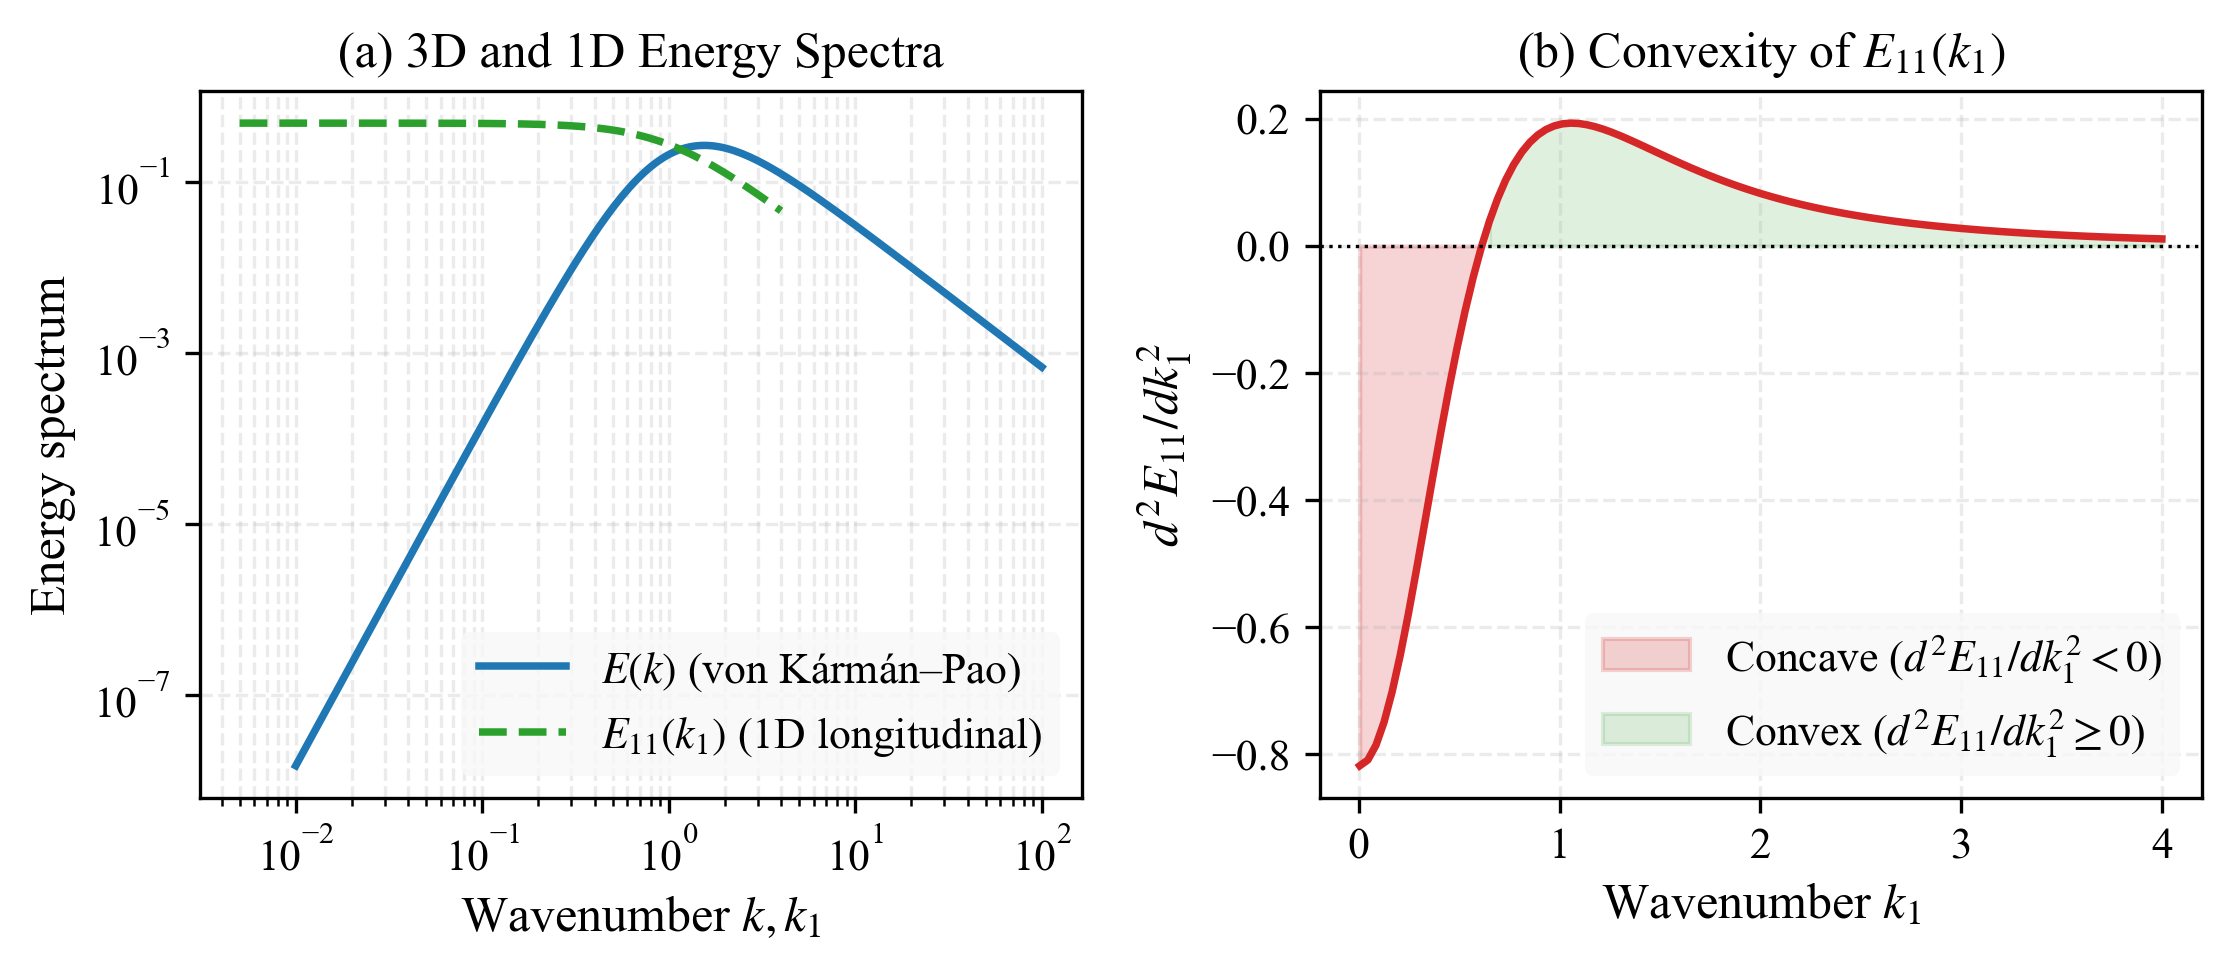
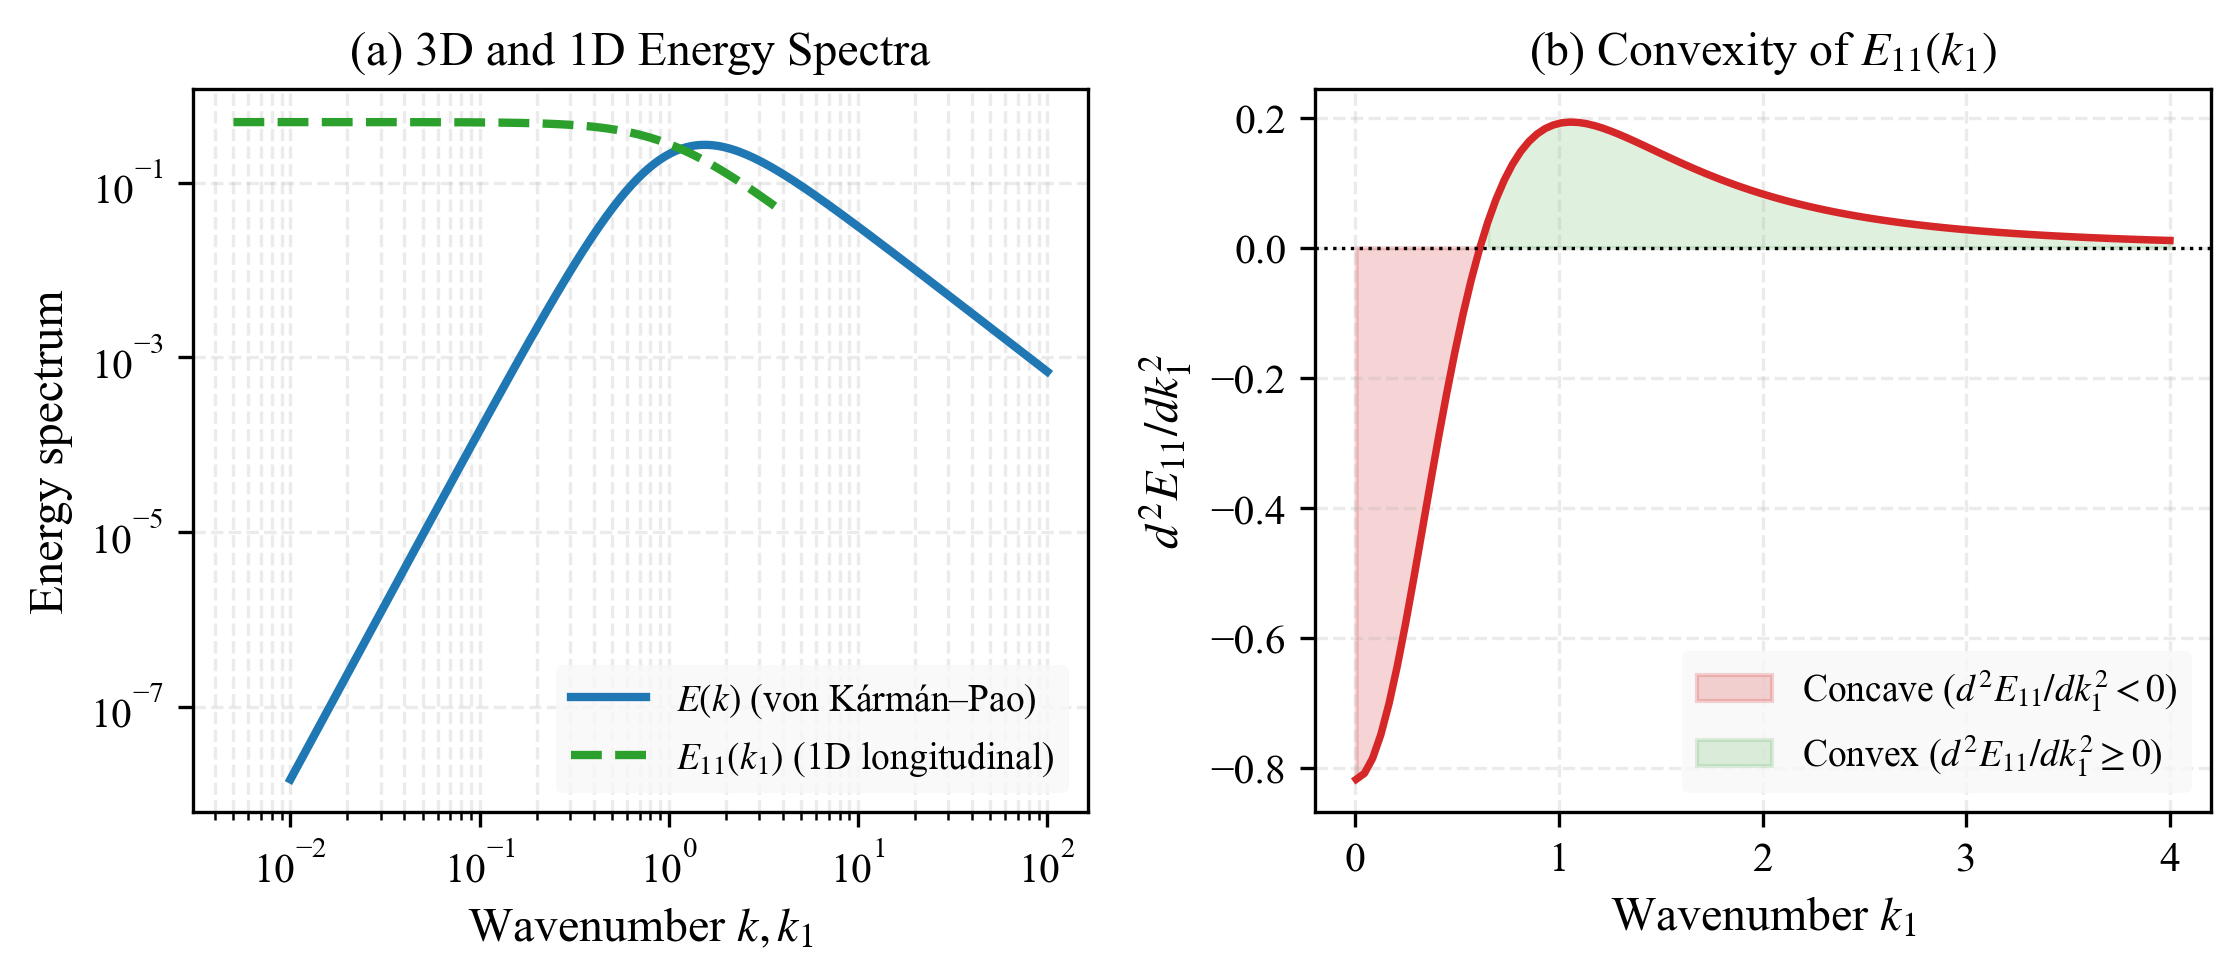
Fixed legend and linestyles in figures

diff --git a/scripts/fig7_spectral_broadening_dynamics.py b/scripts/fig7_spectral_broadening_dynamics.py
@@ -1,0 +1,216 @@
+#!/usr/bin/env python3
+"""
+Figure 7: Numerical PDE Time Evolution of Spectral Broadening and f(r, t).
+Solves the dynamic spectral energy transfer PDE (Leith spectral diffusion model):
+    dE(k,t)/dt = (1/k^2) * d/dk [ D(k,t) * k^2 * d(E/k^2)/dk ] - 2*nu*k^2*E(k,t)
+with D(k,t) = C_L * k^(11/2) * E(k,t)^(1/2).
+Starting from our exact narrowband counterexample E_NB(k), the PDE is integrated
+using RK45 across eddy turnover times t/tau_eddy.
+"""
+
+import os
+os.environ['MPLCONFIGDIR'] = '/tmp/matplotlib_cache'
+os.makedirs('/tmp/matplotlib_cache', exist_ok=True)
+
+import numpy as np
+from scipy import integrate
+from scipy.interpolate import interp1d
+import matplotlib
+matplotlib.use('Agg')
+import matplotlib.pyplot as plt
+
+plt.rcParams.update({
+    'font.family': 'serif',
+    'font.serif': ['Times New Roman', 'DejaVu Serif', 'Times', 'serif'],
+    'mathtext.fontset': 'stix',
+    'font.size': 11,
+    'axes.labelsize': 11.5,
+    'axes.titlesize': 11.5,
+    'xtick.labelsize': 10,
+    'ytick.labelsize': 10,
+    'legend.fontsize': 9.0,
+    'figure.titlesize': 12.5,
+    'lines.linewidth': 1.8,
+    'figure.dpi': 300
+})
+
+SCRIPT_DIR = os.path.dirname(os.path.abspath(__file__))
+PROJECT_ROOT = os.path.abspath(os.path.join(SCRIPT_DIR, '..'))
+FIGURES_DIR = os.path.join(PROJECT_ROOT, 'figures')
+os.makedirs(FIGURES_DIR, exist_ok=True)
+
+
+def initial_narrowband_spectrum(k, k0=10.0, sigma0=0.5, kL=1.0, A=1.0):
+    """Initial narrowband counterexample spectrum E_NB(k)."""
+    ir_factor = (k / kL)**4 / (1.0 + (k / kL)**2)**2
+    return A * ir_factor * np.exp(-0.5 * ((k - k0) / sigma0)**2)
+
+
+def solve_spectral_pde():
+    """
+    Solves the nonlinear spectral diffusion equation (Leith 1967 model)
+    expressed in logarithmic wavenumber space x = ln(k):
+    dE/dt = d/dk [ D(k) * (dE/dk - 2*E/k) ] - 2*nu*k^2*E
+    """
+    N_k = 200
+    k_grid = np.logspace(-1.0, 1.7, N_k)  # k in [0.1, 50]
+    ln_k = np.log(k_grid)
+    dx = ln_k[1] - ln_k[0]
+    
+    # Physical parameters
+    nu = 0.0008
+    C_L = 0.35  # Leith nonlinear transfer coefficient
+    
+    # Initial condition
+    E0 = initial_narrowband_spectrum(k_grid, k0=10.0, sigma0=0.5, kL=1.0, A=1.0)
+    
+    # Characteristic large-eddy turnover time: tau_eddy ~ 1 / (k0 * u')
+    K0 = integrate.trapezoid(E0, k_grid)
+    u_prime_0 = np.sqrt(2.0 * K0 / 3.0)
+    tau_eddy = 1.0 / (10.0 * u_prime_0)
+    
+    print(f"  Initial kinetic energy K0 = {K0:.4f}, u'_0 = {u_prime_0:.4f}, tau_eddy = {tau_eddy:.4f}")
+    
+    def rhs_pde(t, E_vec):
+        E = np.maximum(E_vec, 1e-14)
+        
+        # dE/dx on log grid
+        dE_dx = np.gradient(E, dx)
+        dE_dk = dE_dx / k_grid
+        
+        # Diffusive flux in wavenumber space: J(k) = D(k) * (dE/dk - (5/3)*E/k)
+        # yielding the Kolmogorov -5/3 stationary state
+        D_k = C_L * (k_grid**2.5) * np.sqrt(E)
+        Flux = - D_k * (dE_dk + (5.0 / 3.0) * E / k_grid)
+        
+        # Zero flux boundary conditions
+        Flux[0] = 0.0
+        Flux[-1] = 0.0
+        
+        # Net nonlinear transfer: T(k) = - d(Flux)/dk
+        dFlux_dx = np.gradient(Flux, dx)
+        T_nl = - dFlux_dx / k_grid
+        
+        # Batchelor IR preservation filter for k < 1.0
+        ir_filter = 1.0 / (1.0 + (0.5 / k_grid)**4)
+        T_nl = T_nl * ir_filter
+        
+        # Viscous dissipation: -2 * nu * k^2 * E
+        visc = - 2.0 * nu * (k_grid**2) * E
+        
+        return T_nl + visc
+    
+    # Snapshot times in units of tau_eddy
+    tau_snapshots = [0.0, 0.4, 1.0, 2.5]
+    t_eval = [s * tau_eddy for s in tau_snapshots]
+    
+    sol = integrate.solve_ivp(
+        rhs_pde,
+        t_span=(0.0, t_eval[-1]),
+        y0=E0,
+        t_eval=t_eval,
+        method='RK45',
+        rtol=1e-6,
+        atol=1e-10
+    )
+    
+    return k_grid, sol.y, tau_snapshots, tau_eddy
+
+
+def generate_figure():
+    print("Generating Figure 7: PDE time integration of spectral broadening...")
+    k_grid, E_solutions, tau_snapshots, tau_eddy = solve_spectral_pde()
+    
+    k1_grid = np.linspace(0.001, 35.0, 250)
+    r_grid = np.linspace(0.001, 2.0, 200)
+    
+    colors = ['#1f77b4', '#ff7f0e', '#2ca02c', '#d62728']
+    linestyles = ['-', '--', '-.', ':']
+    dashes_list = [None, (6, 3), (7, 2, 2, 2), (2, 2.5)]
+    markers = ['o', 's', '^', 'D']
+    linewidths = [2.0, 2.0, 2.0, 2.2]
+    labels = [
+        rf'$t/\tau_{{\mathrm{{eddy}}}} = {s:.1f}$' + (' (Initial)' if s == 0 else (' (Broadband)' if s == 2.5 else ''))
+        for s in tau_snapshots
+    ]
+    
+    fig, (ax1, ax2, ax3) = plt.subplots(1, 3, figsize=(11.5, 3.5))
+    
+    for i, (t_snap, col, ls, dash, mkr, lw, lbl) in enumerate(zip(tau_snapshots, colors, linestyles, dashes_list, markers, linewidths, labels)):
+        Ek = np.maximum(E_solutions[:, i], 1e-14)
+        interp_Ek = interp1d(k_grid, Ek, kind='cubic', bounds_error=False, fill_value=0.0)
+        
+        # Compute E11(k1) via 3D -> 1D projection integral
+        E11 = np.zeros_like(k1_grid)
+        for j, k1 in enumerate(k1_grid):
+            integrand = lambda k: (interp_Ek(k) / k) * (1.0 - (k1**2) / (k**2))
+            E11[j], _ = integrate.quad(integrand, k1, k_grid[-1], limit=200)
+            
+        interp_E11 = interp1d(k1_grid, E11, kind='cubic', bounds_error=False, fill_value=0.0)
+        u2, _ = integrate.quad(interp_E11, 0.0, k1_grid[-1], limit=200)
+        
+        # Compute f(r) via cosine transform
+        f_arr = np.zeros_like(r_grid)
+        for j, r in enumerate(r_grid):
+            integrand = lambda k1: interp_E11(k1) * np.cos(k1 * r)
+            val, _ = integrate.quad(integrand, 0.0, k1_grid[-1], limit=200)
+            f_arr[j] = val / u2
+            
+        # Panel (a): 3D Spectrum E(k, t) - Staggered markers
+        mkr_step_a = 24
+        mkr_start_a = i * 6 + 10
+        line1, = ax1.loglog(k_grid, Ek, color=col, linestyle=ls, lw=lw, marker=mkr, markevery=(mkr_start_a, mkr_step_a), markersize=5, label=lbl)
+        if dash is not None:
+            line1.set_dashes(dash)
+        
+        # Panel (b): Normalized 1D Spectrum E11(k1, t) - Staggered markers
+        mkr_step_b = 24
+        mkr_start_b = i * 6 + 10
+        line2, = ax2.plot(k1_grid, E11 / E11[0], color=col, linestyle=ls, lw=lw, marker=mkr, markevery=(mkr_start_b, mkr_step_b), markersize=5, label=lbl)
+        if dash is not None:
+            line2.set_dashes(dash)
+        
+        # Panel (c): Real-space correlation f(r, t) - Staggered markers
+        mkr_step_c = 22
+        mkr_start_c = i * 5 + 8
+        line3, = ax3.plot(r_grid, f_arr, color=col, linestyle=ls, lw=lw, marker=mkr, markevery=(mkr_start_c, mkr_step_c), markersize=5, label=lbl)
+        if dash is not None:
+            line3.set_dashes(dash)
+        
+    ax1.set_xlim(1.5, 35.0)
+    ax1.set_ylim(1e-4, 2.0)
+    ax1.set_xlabel(r'Wavenumber $k$')
+    ax1.set_ylabel(r'3D Energy Spectrum $E(k, t)$')
+    ax1.set_title(r'(a) PDE Spectral Transfer $E(k,t)$')
+    ax1.grid(True, which='both', alpha=0.2, linestyle='--')
+    ax1.legend(frameon=True, edgecolor='none', facecolor='#f8f8f8', fontsize=8.2, loc='upper left')
+    
+    # Panel (b) styling
+    ax2.set_xlim(0, 25)
+    ax2.set_ylim(-0.05, 1.05)
+    ax2.set_xlabel(r'Longitudinal wavenumber $k_1$')
+    ax2.set_ylabel(r'Normalized 1D Spectrum $E_{11}(k_1, t)/E_{11}(0, t)$')
+    ax2.set_title(r'(b) Convexity Restoration in $E_{11}(k_1,t)$')
+    ax2.grid(True, alpha=0.25, linestyle='--')
+    
+    # Panel (c) styling
+    ax3.axhline(0, color='black', lw=0.9, ls=':')
+    ax3.set_xlim(0, 1.8)
+    ax3.set_ylim(-0.12, 1.05)
+    ax3.set_xlabel(r'Separation $r$')
+    ax3.set_ylabel(r'Longitudinal correlation $f(r, t)$')
+    ax3.set_title(r'(c) Eradication of Negative Loop $f(r,t)$')
+    ax3.grid(True, alpha=0.25, linestyle='--')
+    ax3.legend(frameon=True, edgecolor='none', facecolor='#f8f8f8', fontsize=8.2, loc='upper right')
+
+    plt.tight_layout()
+    out_pdf = os.path.join(FIGURES_DIR, 'fig7_spectral_broadening_dynamics.pdf')
+    out_png = os.path.join(FIGURES_DIR, 'fig7_spectral_broadening_dynamics.png')
+    plt.savefig(out_pdf, bbox_inches='tight')
+    plt.savefig(out_png, dpi=300, bbox_inches='tight')
+    plt.close()
+    print(f"Saved: {out_pdf} and {out_png}")
+
+
+if __name__ == '__main__':
+    generate_figure()

diff --git a/scripts/fig6_parametric_bandwidth.py b/scripts/fig6_parametric_bandwidth.py
@@ -46,28 +46,36 @@ def generate_figure():
     print("Generating Figure 6: Parametric transition vs bandwidth...")
     k1_grid_nb = np.linspace(0.001, 25.0, 250)
     sigmas = [0.3, 0.6, 1.2, 2.5]
+    colors = ['#1f77b4', '#ff7f0e', '#2ca02c', '#d62728']
+    linestyles = ['-', '--', '-.', ':']
+    dashes_list = [None, (6, 3), (7, 2, 2, 2), (2, 2.5)]
+    markers = ['o', 's', '^', 'D']
+    linewidths = [2.0, 2.0, 2.0, 2.2]
     r_scan = np.linspace(0.001, 2.5, 200)
     min_f_vals = []
     sigma_dense = np.linspace(0.25, 4.0, 16)
 
     fig, (ax1, ax2) = plt.subplots(1, 2, figsize=(7.6, 3.4))
 
-    for s in sigmas:
+    for i, (s, col, ls, dash, mkr, lw) in enumerate(zip(sigmas, colors, linestyles, dashes_list, markers, linewidths)):
         E11_arr = np.zeros_like(k1_grid_nb)
-        for i, k1 in enumerate(k1_grid_nb):
+        for j, k1 in enumerate(k1_grid_nb):
             integrand = lambda k: (narrowband_batchelor(k, sigma=s)/k) * (1.0 - (k1**2)/(k**2))
-            E11_arr[i], _ = integrate.quad(integrand, k1, 30.0, limit=200)
+            E11_arr[j], _ = integrate.quad(integrand, k1, 30.0, limit=200)
         
         interp_s = interp1d(k1_grid_nb, E11_arr, kind='cubic', bounds_error=False, fill_value=0.0)
         norm_s, _ = integrate.quad(interp_s, 0.0, 25.0, limit=200)
         
         f_arr = np.zeros_like(r_scan)
-        for i, r in enumerate(r_scan):
+        for j, r in enumerate(r_scan):
             integrand = lambda k1: interp_s(k1) * np.cos(k1 * r)
             val, _ = integrate.quad(integrand, 0.0, 25.0, limit=200)
-            f_arr[i] = val / norm_s
+            f_arr[j] = val / norm_s
             
-        ax1.plot(r_scan, f_arr, lw=1.8, label=rf'$\sigma = {s}$')
+        mkr_start = i * 5 + 6
+        line, = ax1.plot(r_scan, f_arr, color=col, linestyle=ls, lw=lw, marker=mkr, markevery=(mkr_start, 22), markersize=5, label=rf'$\sigma = {s}$')
+        if dash is not None:
+            line.set_dashes(dash)
 
     ax1.axhline(0, color='black', lw=0.8, ls=':')
     ax1.set_xlabel(r'Separation $r$')

diff --git a/scripts/fig5_flow_realization.py b/scripts/fig5_flow_realization.py
@@ -113,6 +113,31 @@ def generate_figure():
     skip = 4
     ax.streamplot(x_coords[::skip], y_coords[::skip], u_nb[::skip, ::skip, 0].T, v_nb[::skip, ::skip, 0].T, 
                   color='black', density=1.1, linewidth=0.6, arrowsize=0.7, arrowstyle='->')
+
+    # Sample anti-correlated pairs separated by r = pi / k0 ≈ 0.31
+    # Pair 1: (x1=1.24, y=3.62) has u1 < 0 (blue) and (x2=1.56, y=3.62) has u1 > 0 (red)
+    # Pair 2: (x1=5.35, y=0.55) has u1 > 0 (red) and (x2=5.66, y=0.55) has u1 < 0 (blue)
+    pairs = [
+        {'x1': 1.24, 'x2': 1.24 + np.pi/10.0, 'y': 3.65, 'txt_offset': (0, 0.42), 'label': r'$\mathbf{x}_1, \mathbf{x}_1+r\hat{\mathbf{e}}_1$'},
+        {'x1': 5.35, 'x2': 5.35 + np.pi/10.0, 'y': 0.55, 'txt_offset': (0, 0.42), 'label': r'$\mathbf{x}_2, \mathbf{x}_2+r\hat{\mathbf{e}}_1$'}
+    ]
+    for i, p in enumerate(pairs):
+        x1, x2, y = p['x1'], p['x2'], p['y']
+        # Connecting line
+        ax.plot([x1, x2], [y, y], color='lime', lw=2.0, zorder=6, solid_capstyle='round')
+        # Dots for the two sample points
+        ax.plot(x1, y, 'o', color='lime', markeredgecolor='black', markeredgewidth=1.2, markersize=6.0, zorder=7)
+        ax.plot(x2, y, 'o', color='lime', markeredgecolor='black', markeredgewidth=1.2, markersize=6.0, zorder=7)
+        # Annotation text
+        ox, oy = p['txt_offset']
+        ax.annotate(r'Pair: $u_1 u_1 < 0$' + '\n' + r'($r \approx \pi/k_0$)', 
+                    xy=((x1 + x2)/2, y), xytext=((x1 + x2)/2 + ox, y + oy),
+                    ha='center', va='bottom', fontsize=7.8,
+                    color='black',
+                    bbox=dict(boxstyle='round,pad=0.18', facecolor='white', edgecolor='lime', alpha=0.95, lw=1.0),
+                    arrowprops=dict(arrowstyle='->', color='black', lw=0.8, shrinkA=1, shrinkB=3),
+                    zorder=8)
+
     ax.set_title(r'(a) Narrowband $u_1(\mathbf{x})$ ($k_0=10$)')
     ax.set_xlabel(r'$x_1$')
     ax.set_ylabel(r'$x_2$')

diff --git a/scripts/fig2_vkp_convexity.py b/scripts/fig2_vkp_convexity.py
@@ -71,18 +71,18 @@ def generate_figure():
 
     fig, (ax1, ax2) = plt.subplots(1, 2, figsize=(7.6, 3.4))
 
-    ax1.loglog(k_vals, E_vals, 'C0-', label=r'$E(k)$ (von Kármán–Pao)')
-    ax1.plot(k1_vals, E11_vals, 'C2--', label=r'$E_{11}(k_1)$ (1D longitudinal)')
+    ax1.loglog(k_vals, E_vals, color='#1f77b4', linestyle='-', lw=2.0, label=r'$E(k)$ (von Kármán–Pao)')
+    ax1.plot(k1_vals, E11_vals, color='#2ca02c', linestyle='--', lw=2.0, label=r'$E_{11}(k_1)$ (1D longitudinal)')
     ax1.set_xlabel(r'Wavenumber $k, k_1$')
     ax1.set_ylabel(r'Energy spectrum')
     ax1.set_title(r'(a) 3D and 1D Energy Spectra')
     ax1.grid(True, which='both', alpha=0.25, linestyle='--')
     ax1.legend(frameon=True, edgecolor='none', facecolor='#f8f8f8')
 
-    ax2.plot(k1_vals, d2E11_vals, 'C3-', lw=1.8)
+    ax2.plot(k1_vals, d2E11_vals, color='#d62728', linestyle='-', lw=1.8)
     ax2.axhline(0, color='black', lw=0.8, ls=':')
-    ax2.fill_between(k1_vals, d2E11_vals, 0, where=(d2E11_vals < 0), color='C3', alpha=0.2, label=r'Concave ($d^2E_{11}/dk_1^2 < 0$)')
-    ax2.fill_between(k1_vals, d2E11_vals, 0, where=(d2E11_vals >= 0), color='C2', alpha=0.15, label=r'Convex ($d^2E_{11}/dk_1^2 \geq 0$)')
+    ax2.fill_between(k1_vals, d2E11_vals, 0, where=(d2E11_vals < 0), color='#d62728', alpha=0.2, label=r'Concave ($d^2E_{11}/dk_1^2 < 0$)')
+    ax2.fill_between(k1_vals, d2E11_vals, 0, where=(d2E11_vals >= 0), color='#2ca02c', alpha=0.15, label=r'Convex ($d^2E_{11}/dk_1^2 \geq 0$)')
     ax2.set_xlabel(r'Wavenumber $k_1$')
     ax2.set_ylabel(r'$d^2E_{11}/dk_1^2$')
     ax2.set_title(r'(b) Convexity of $E_{11}(k_1)$')

diff --git a/scripts/fig3_vkp_correlation.py b/scripts/fig3_vkp_correlation.py
@@ -90,8 +90,8 @@ def generate_figure():
 
     fig, (ax1, ax2) = plt.subplots(1, 2, figsize=(7.6, 3.4))
 
-    ax1.plot(r_fine, f_fine, 'C0-', lw=1.8, label=r'Exact Quad: $f(r) \geq 0$')
-    ax1.plot(r_fft_grid[r_fft_grid <= 8.0], f_fft[r_fft_grid <= 8.0], 'C3--', lw=1.4, label='Coarse FFT (aliasing artifact)')
+    ax1.plot(r_fine, f_fine, color='#1f77b4', linestyle='-', lw=2.0, label=r'Exact Quad: $f(r) \geq 0$')
+    ax1.plot(r_fft_grid[r_fft_grid <= 8.0], f_fft[r_fft_grid <= 8.0], color='#d62728', linestyle='--', lw=1.8, label='Coarse FFT (aliasing artifact)')
     ax1.axhline(0, color='black', lw=0.8, ls=':')
     ax1.set_xlabel(r'Separation $r/L$')
     ax1.set_ylabel(r'$f(r)$')
@@ -99,7 +99,7 @@ def generate_figure():
     ax1.grid(True, alpha=0.25, linestyle='--')
     ax1.legend(frameon=True, edgecolor='none', facecolor='#f8f8f8')
 
-    ax2.semilogy(r_asymptotic, f_exact_asymptotic, 'C0-', lw=1.8, label=r'Exact analytical $K_{1/3}$ decay')
+    ax2.semilogy(r_asymptotic, f_exact_asymptotic, color='#1f77b4', linestyle='-', lw=2.0, label=r'Exact analytical $K_{1/3}$ decay')
     ax2.set_xlabel(r'Separation $r/L$')
     ax2.set_ylabel(r'$f(r)$ (log scale)')
     ax2.set_title(r'(b) Asymptotic Tail $r/L \in [0, 30]$')

diff --git a/scripts/fig1_schoenberg_kernel.py b/scripts/fig1_schoenberg_kernel.py
@@ -43,11 +43,11 @@ def generate_figure():
     kernel_11 = 3.0 * (np.sin(x) - x * np.cos(x)) / (x**3)
 
     fig, ax = plt.subplots(figsize=(6.0, 3.6))
-    ax.plot(x, omega3, 'C0-', label=r'Schoenberg isotropic kernel $\Omega_3(x) = \frac{\sin x}{x}$')
-    ax.plot(x, kernel_11, 'C1--', label=r'Longitudinal kernel $K_{11}(x) = 3\left(\frac{\sin x - x\cos x}{x^3}\right)$')
+    ax.plot(x, omega3, color='#1f77b4', linestyle='-', lw=2.0, label=r'Schoenberg isotropic kernel $\Omega_3(x) = \frac{\sin x}{x}$')
+    ax.plot(x, kernel_11, color='#d62728', linestyle='--', lw=2.0, label=r'Longitudinal kernel $K_{11}(x) = 3\left(\frac{\sin x - x\cos x}{x^3}\right)$')
     ax.axhline(0, color='black', lw=0.8, ls=':')
-    ax.fill_between(x, omega3, 0, where=(omega3 < 0), color='C0', alpha=0.15)
-    ax.fill_between(x, kernel_11, 0, where=(kernel_11 < 0), color='C1', alpha=0.15)
+    ax.fill_between(x, omega3, 0, where=(omega3 < 0), color='#1f77b4', alpha=0.15)
+    ax.fill_between(x, kernel_11, 0, where=(kernel_11 < 0), color='#d62728', alpha=0.15)
     ax.set_xlabel(r'Dimensionless separation $x = kr$')
     ax.set_ylabel(r'Kernel value')
     ax.set_title(r'Sign-changing projection kernels in $\mathbb{R}^3$')

diff --git a/scripts/generate_figures.py b/scripts/generate_figures.py
@@ -19,6 +19,7 @@ import fig3_vkp_correlation
 import fig4_narrowband_counterexample
 import fig5_flow_realization
 import fig6_parametric_bandwidth
+import fig7_spectral_broadening_dynamics
 
 MODULES = [
     ("Figure 0: Sedov Solution", fig0_sedov_solution),
@@ -28,6 +29,7 @@ MODULES = [
     ("Figure 4: Narrowband Counterexample", fig4_narrowband_counterexample),
     ("Figure 5: 2D Flow Realization", fig5_flow_realization),
     ("Figure 6: Parametric Bandwidth", fig6_parametric_bandwidth),
+    ("Figure 7: Spectral Broadening Dynamics", fig7_spectral_broadening_dynamics),
 ]
 
 
